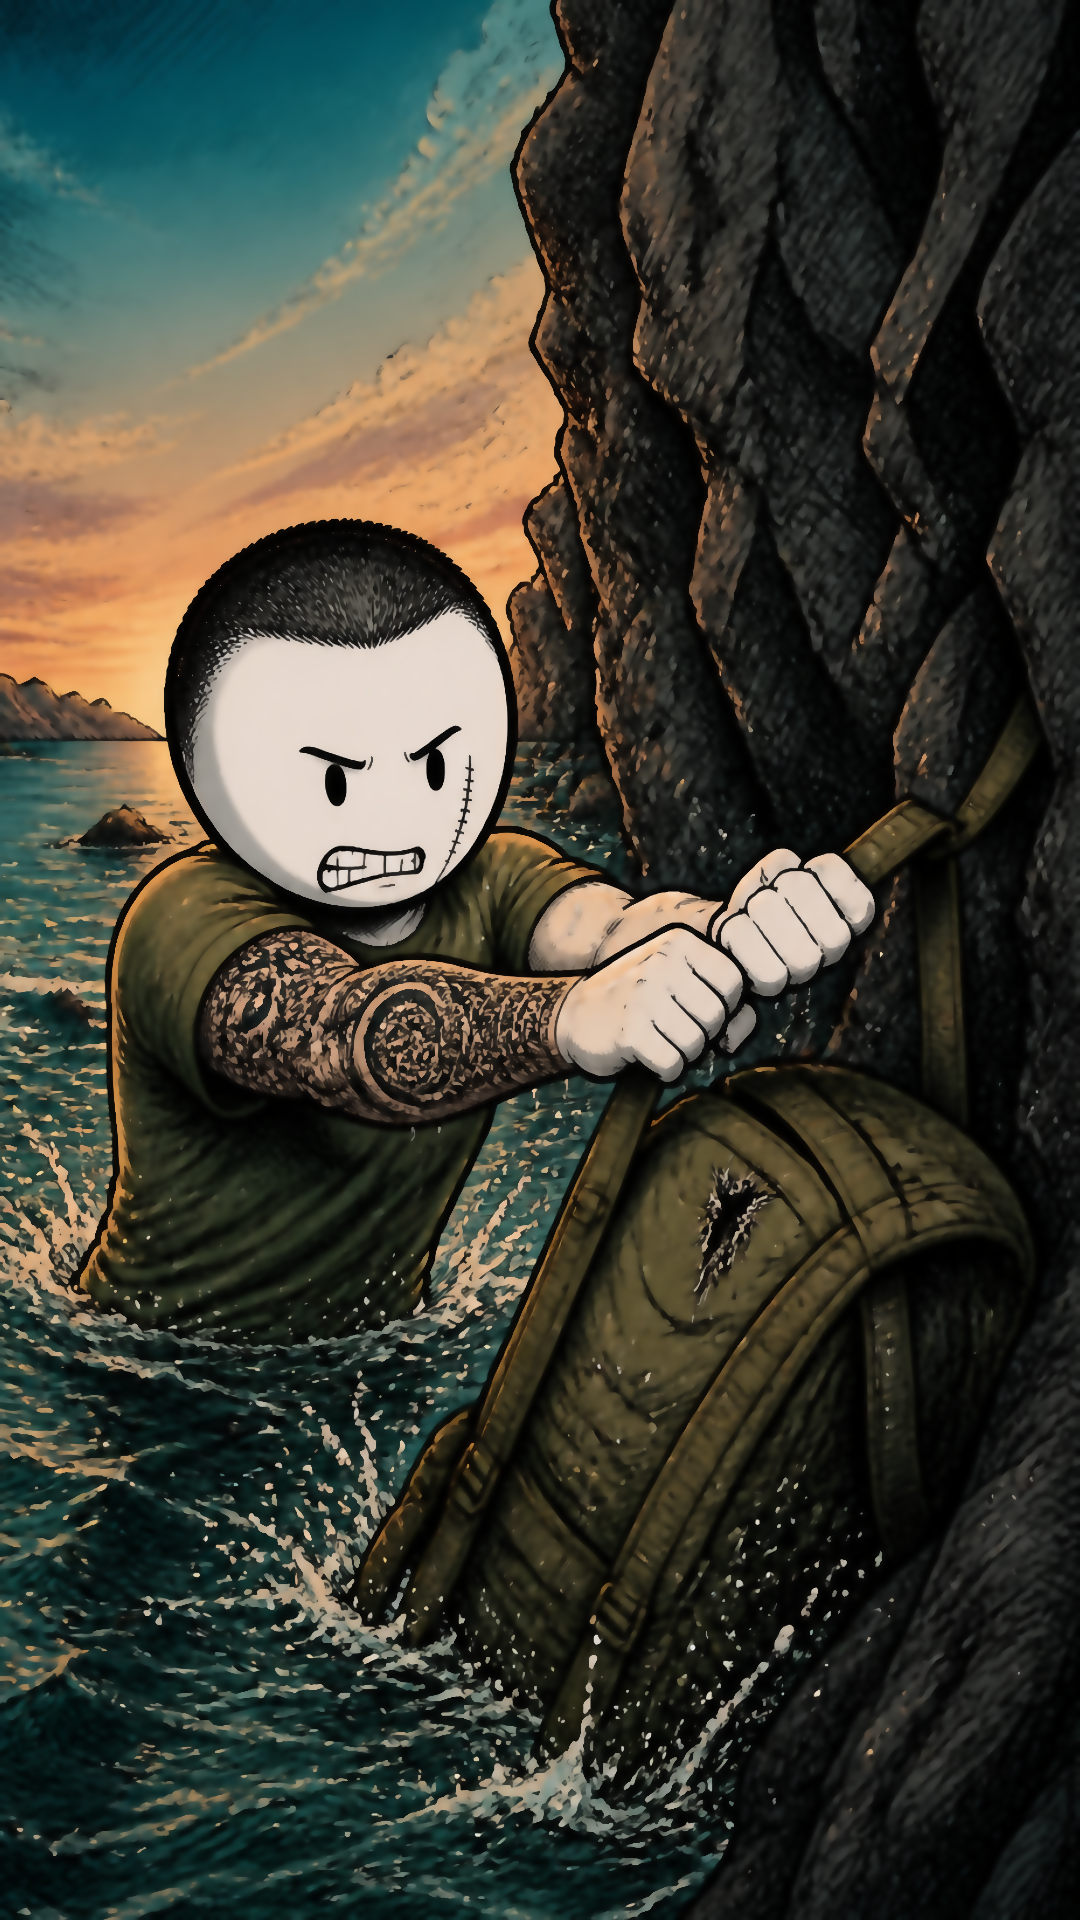
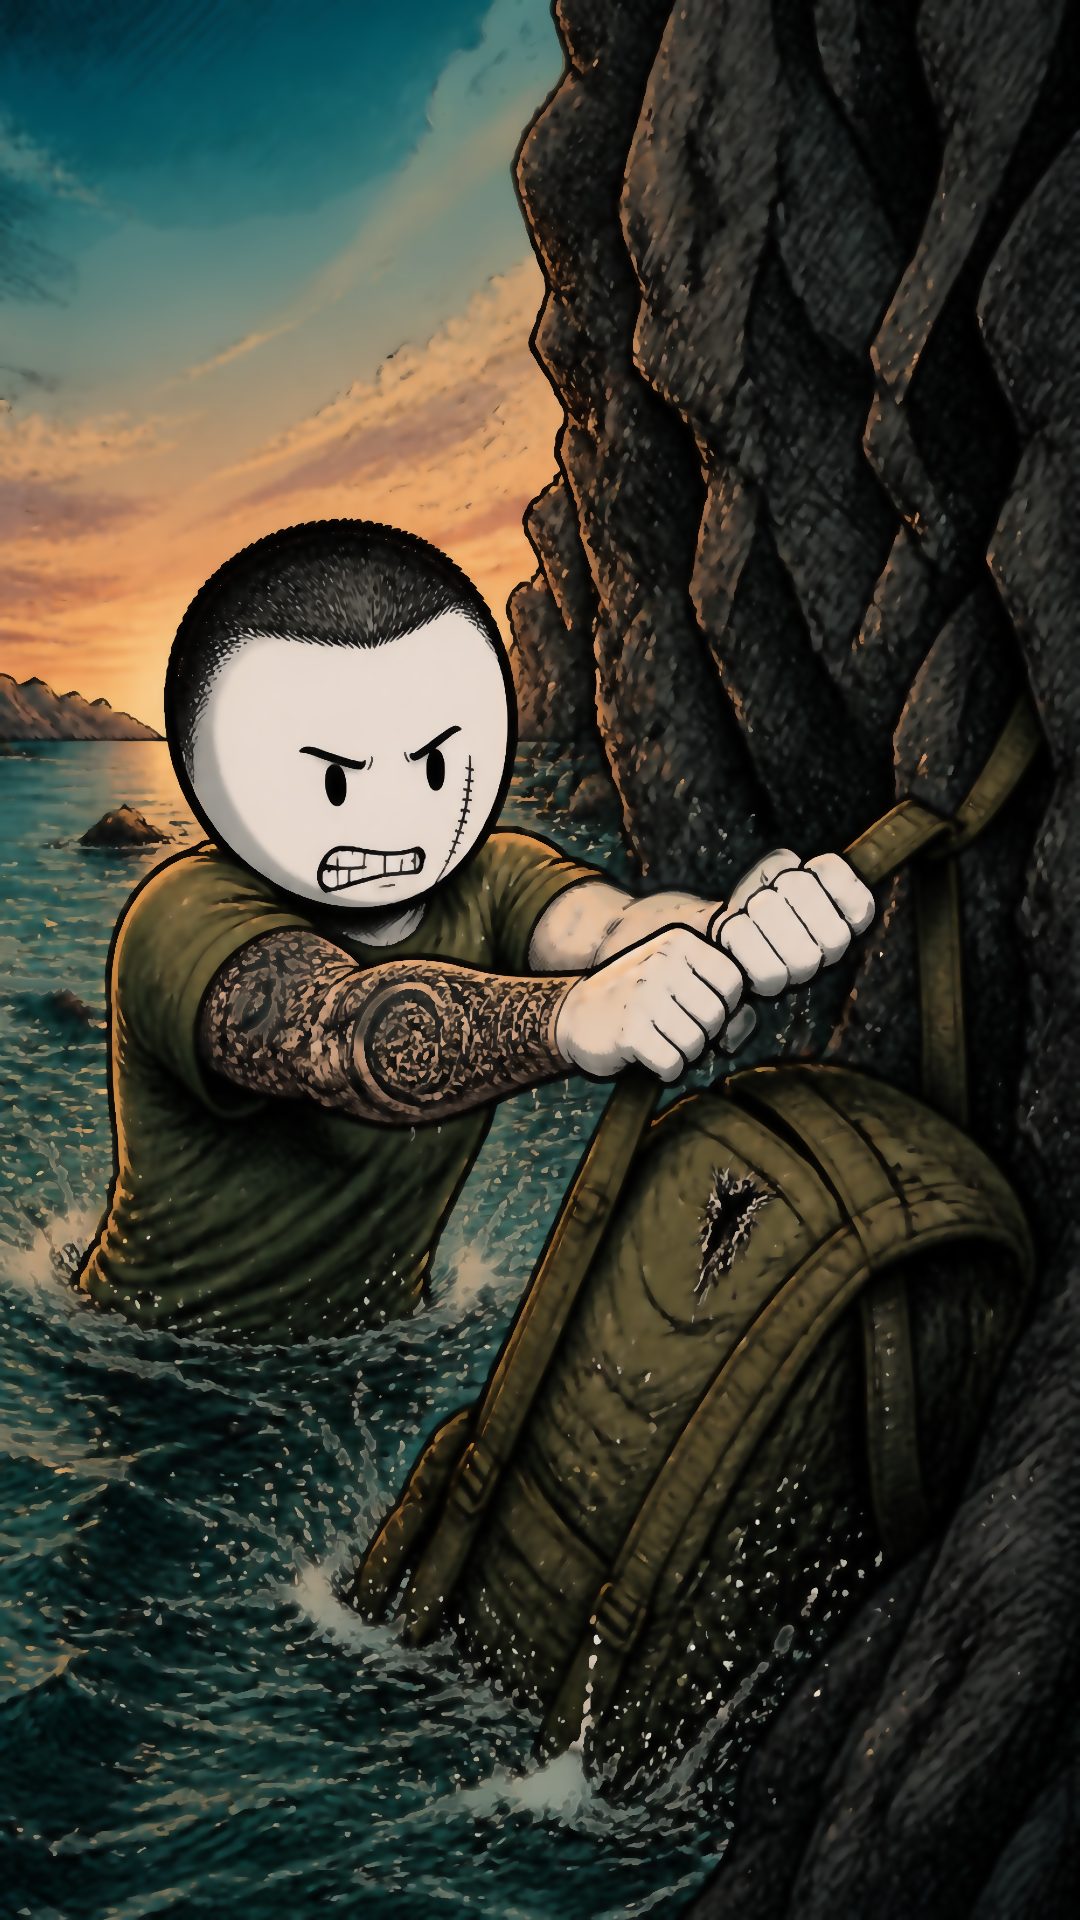
ADA 9 b1: denizdeki sert beyaz köpük/parıltılar bastırıldı (scripts/deniz_yumusat.py)
Claude-Session: https://claude.ai/code/session_014JxJGDekTQeiZJynemFY6T

diff --git a/scripts/deniz_yumusat.py b/scripts/deniz_yumusat.py
@@ -1,0 +1,27 @@
+# Denizdeki sert beyaz köpük/parıltıları bastırır; karakter kafaları (yuvarlak, dolgun beyaz alanlar) korunur.
+import cv2, numpy as np, sys
+def soften(im, strength=1.0):
+    hsv = cv2.cvtColor(im, cv2.COLOR_BGR2HSV)
+    H, S, V = hsv[...,0].astype(int), hsv[...,1].astype(int), hsv[...,2].astype(int)
+    water = ((H >= 65) & (H <= 112) & (S > 30) & (V > 30)).astype(np.uint8)
+    water = cv2.morphologyEx(water, cv2.MORPH_CLOSE, np.ones((35,35),np.uint8))
+    water = cv2.dilate(water, np.ones((41,41),np.uint8))
+    bright = ((V > 120) & (S < 120)).astype(np.uint8)
+    n, lab, st, _ = cv2.connectedComponentsWithStats(bright, 8)
+    keep = np.zeros_like(bright)
+    for i in range(1, n):
+        x, y, w, h, a = st[i]
+        extent = a / float(w*h); asp = w / float(h)
+        if a > 15000 and extent > 0.55 and 0.6 < asp < 1.7:  # yuvarlak dolgun alan = kafa / el
+            keep[lab == i] = 1
+    keep = cv2.dilate(keep, np.ones((21,21),np.uint8))
+    m = (bright & water & (1 - keep)).astype(np.float32)
+    m = np.clip(cv2.GaussianBlur(m, (0,0), 4)*1.3, 0, 1)[...,None] * strength
+    # köpük yerine: çevredeki suyun rengi + biraz açık ton (beyaz değil)
+    wcol = cv2.medianBlur(im, 41).astype(np.float32)
+    target = wcol * 0.82 + np.array([140,150,130],np.float32) * 0.18
+    out = im.astype(np.float32) * (1 - m) + target * m
+    return np.clip(out, 0, 255).astype(np.uint8)
+if __name__ == '__main__':
+    for src, dst in zip(sys.argv[1::2], sys.argv[2::2]):
+        cv2.imwrite(dst, soften(cv2.imread(src)))
